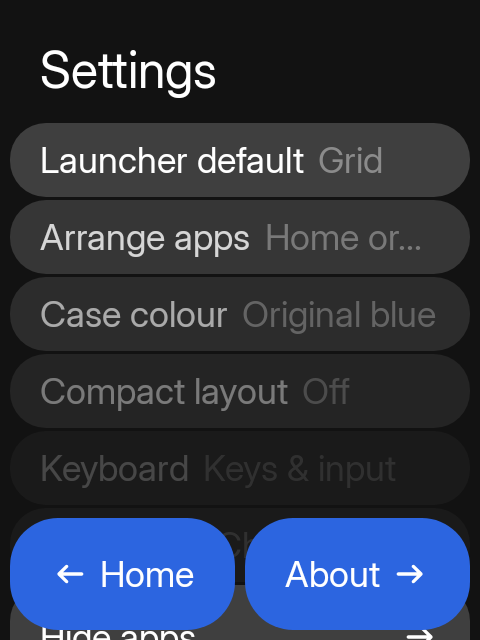
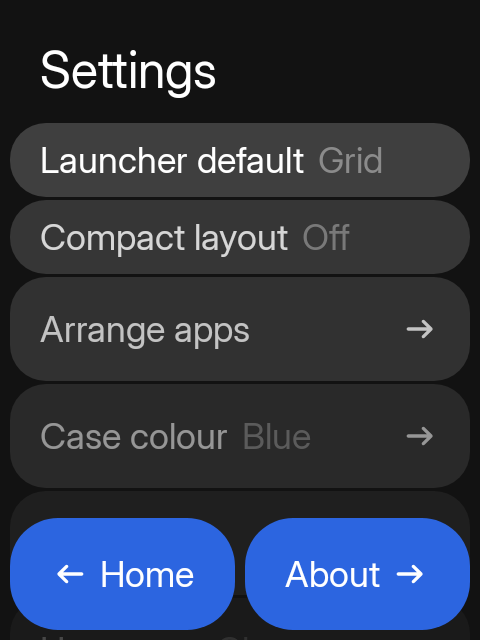
Split Settings toggles from page links
(cherry picked from commit 1ed739c7b282a1493a2430d09b34460cc0afca92)

diff --git a/sidekit/src/main/java/hrln/interactive/sidekit/design/components/Item.kt b/sidekit/src/main/java/hrln/interactive/sidekit/design/components/Item.kt
@@ -13,7 +13,6 @@ import androidx.compose.foundation.layout.padding
 import androidx.compose.foundation.layout.size
 import androidx.compose.runtime.Composable
 import androidx.compose.runtime.CompositionLocalProvider
-import hrln.interactive.sidekit.design.theme.contentColorFor
 import androidx.compose.ui.Alignment
 import androidx.compose.ui.Modifier
 import androidx.compose.ui.draw.clip
@@ -23,6 +22,7 @@ import androidx.compose.ui.text.style.TextDecoration
 import androidx.compose.ui.unit.Dp
 import hrln.interactive.sidekit.design.icons.SidekitIcon
 import hrln.interactive.sidekit.design.theme.SidekitTheme
+import hrln.interactive.sidekit.design.theme.contentColorFor
 
 /** Item "Colour Variant" from the Item component set (62:950). */
 enum class ItemColour { Primary, Secondary, Destructive, Muted }
@@ -46,7 +46,7 @@ fun SidekitTile(
     onClick: (() -> Unit)? = null,
     onClickLabel: String? = null,
     contentAlignment: Alignment = Alignment.Center,
-    content: @Composable BoxScope.() -> Unit,
+    content: @Composable BoxScope.() -> Unit
 ) {
     Box(
         modifier = modifier
@@ -54,13 +54,16 @@ fun SidekitTile(
             .clip(SidekitTheme.shapes.item)
             .background(color)
             .then(
-                if (onClick != null) Modifier.clickable(onClickLabel = onClickLabel, role = Role.Button, onClick = onClick)
-                else Modifier,
+                if (onClick != null) {
+                    Modifier.clickable(onClickLabel = onClickLabel, role = Role.Button, onClick = onClick)
+                } else {
+                    Modifier
+                }
             ),
         contentAlignment = contentAlignment,
         content = {
             CompositionLocalProvider(LocalSidekitContentColor provides SidekitTheme.colors.contentColorFor(color)) { content() }
-        },
+        }
     )
 }
 
@@ -78,26 +81,31 @@ fun SidekitItem(
     colour: ItemColour = ItemColour.Primary,
     titleDecoration: TextDecoration? = null,
     onClick: (() -> Unit)? = null,
-    leading: (@Composable RowScope.() -> Unit)? = null,
+    leading: (@Composable RowScope.() -> Unit)? = null
 ) {
     SidekitTile(
         modifier = modifier.fillMaxWidth(),
         color = colour.container(),
         onClick = onClick,
-        contentAlignment = Alignment.CenterStart,
+        contentAlignment = Alignment.CenterStart
     ) {
         Row(
             modifier = Modifier.padding(horizontal = SidekitTheme.spacing.itemPadding),
             verticalAlignment = Alignment.CenterVertically,
-            horizontalArrangement = Arrangement.spacedBy(SidekitTheme.spacing.itemContentGap),
+            horizontalArrangement = Arrangement.spacedBy(SidekitTheme.spacing.itemContentGap)
         ) {
             leading?.invoke(this)
             if (icon != null) SidekitIconImage(icon)
             SidekitText(title, textDecoration = titleDecoration)
             if (secondary != null) {
                 SidekitText(secondary, Modifier.weight(1f), color = SidekitTheme.colors.surfaceA6)
-            } else if (showLinkArrow) {
-                Box(Modifier.weight(1f), contentAlignment = Alignment.CenterEnd) {
+            }
+            // The arrow marks a row that opens another page, whether or not it also shows a value.
+            if (showLinkArrow) {
+                Box(
+                    if (secondary == null) Modifier.weight(1f) else Modifier,
+                    contentAlignment = Alignment.CenterEnd
+                ) {
                     SidekitIconImage(SidekitIcon.ArrowRightAlt)
                 }
             }
@@ -114,7 +122,7 @@ fun SidekitIconItem(
     colour: ItemColour = ItemColour.Primary,
     color: Color = colour.container(),
     iconSize: Dp = SidekitTheme.spacing.iconSize,
-    onClick: (() -> Unit)? = null,
+    onClick: (() -> Unit)? = null
 ) {
     SidekitTile(modifier = modifier, color = color, onClick = onClick, onClickLabel = contentDescription) {
         SidekitIconImage(icon, size = iconSize, contentDescription = contentDescription)
@@ -127,7 +135,7 @@ fun SidekitItemRow(modifier: Modifier = Modifier, content: @Composable RowScope.
     Row(
         modifier = modifier.fillMaxWidth(),
         horizontalArrangement = Arrangement.spacedBy(SidekitTheme.spacing.itemOuterGap),
-        content = content,
+        content = content
     )
 }
 
@@ -137,7 +145,7 @@ fun SidekitCard(
     modifier: Modifier = Modifier,
     color: Color = SidekitTheme.colors.surfaceA3,
     onClick: (() -> Unit)? = null,
-    content: @Composable BoxScope.() -> Unit,
+    content: @Composable BoxScope.() -> Unit
 ) {
     Box(
         modifier = modifier
@@ -147,6 +155,6 @@ fun SidekitCard(
             .padding(SidekitTheme.spacing.itemPadding),
         content = {
             CompositionLocalProvider(LocalSidekitContentColor provides SidekitTheme.colors.contentColorFor(color)) { content() }
-        },
+        }
     )
 }

diff --git a/app/src/main/java/hrln/interactive/sidekit/apps/settings/SettingsScreen.kt b/app/src/main/java/hrln/interactive/sidekit/apps/settings/SettingsScreen.kt
@@ -66,12 +66,19 @@ internal fun SettingsHome(onHome: () -> Unit, onAbout: () -> Unit, onCaseColour:
     val list = rememberLazyListState()
     SidekitScaffold("Settings", actions = listOf(SideAction.back("home", "Home", onHome), SideAction.forward("about", "About", onAbout))) { padding ->
         SidekitList(padding, state = list) {
-            item { SidekitItem("Launcher default", Modifier.height(CompactRowHeight).listFade(list, 0), secondary = if (listLayout) "List" else "Grid", onClick = { prefs.listLayout = !prefs.listLayout; revision++ }) }
-            item { SidekitItem("Arrange apps", Modifier.height(CompactRowHeight).listFade(list, 1), secondary = "Home order & dock", onClick = onArrange) }
-            item { SidekitItem("Case colour", Modifier.height(CompactRowHeight).listFade(list, 2), secondary = caseColour?.label ?: "Original blue", onClick = onCaseColour) }
+            // Toggles act in place: compact rows, no arrow.
+            item {
+                SidekitItem("Launcher default", Modifier.height(CompactRowHeight).listFade(list, 0), secondary = if (listLayout) "List" else "Grid", onClick = {
+                    prefs.listLayout = !prefs.listLayout
+                    revision++
+                })
+            }
+            // Everything below opens another page: full-height rows with a link arrow.
+            item { SidekitItem("Arrange apps", Modifier.listFade(list, 1), showLinkArrow = true, onClick = onArrange) }
+            item { SidekitItem("Case colour", Modifier.listFade(list, 2), secondary = caseColour?.label ?: "Blue", showLinkArrow = true, onClick = onCaseColour) }
             // All keypad preferences live together on the Keyboard page, with the key diagram.
-            item { SidekitItem("Keyboard", Modifier.height(CompactRowHeight).listFade(list, 3), secondary = "Keys & input", onClick = onKeyboard) }
-            item { SidekitItem("Home app", Modifier.height(CompactRowHeight).listFade(list, 4), secondary = if (home) "Sidekit" else "Choose", onClick = { open(Settings.ACTION_HOME_SETTINGS) }) }
+            item { SidekitItem("Keyboard", Modifier.listFade(list, 3), showLinkArrow = true, onClick = onKeyboard) }
+            item { SidekitItem("Home app", Modifier.listFade(list, 4), secondary = if (home) "Sidekit" else "Choose", showLinkArrow = true, onClick = { open(Settings.ACTION_HOME_SETTINGS) }) }
             item { SidekitItem("Hide apps", showLinkArrow = true, onClick = onHiddenApps) }
             // Device settings live on their own page, so this screen stays Sidekit's own settings.
             item { SidekitItem("System settings", showLinkArrow = true, onClick = onSystem) }

diff --git a/app/src/test/java/hrln/interactive/sidekit/apps/settings/KeypadMappingUiTest.kt b/app/src/test/java/hrln/interactive/sidekit/apps/settings/KeypadMappingUiTest.kt
@@ -192,7 +192,6 @@ class KeypadMappingUiTest {
         var opened = 0
         show { SettingsHome({}, {}, onKeyboard = { opened++ }) }
         scrollTo("Keyboard")
-        compose.onNodeWithText("Keys & input").assertIsDisplayed()
         // The old separate keypad rows are gone: one entry leads to the Keyboard page.
         compose.onNodeWithText("Input mode").assertDoesNotExist()
         compose.onNodeWithText("Keypad Back key").assertDoesNotExist()
@@ -209,7 +208,7 @@ class KeypadMappingUiTest {
         compose.onNodeWithText("Keypad").assertIsDisplayed()
         compose.onNodeWithText("Input mode").assertIsDisplayed()
         compose.onNodeWithText("Keypad Back key").assertIsDisplayed()
-        compose.onNodeWithText("Keypad mapping").assertIsDisplayed()
+        compose.onNodeWithText("Mapping").assertIsDisplayed()
         // Tapping the keypad row cycles the module, and the diagram follows it.
         compose.onNodeWithText("Keypad").performClick()
         compose.runOnIdle { assertEquals(KeypadModule.Qwerty, keypad.module) }
@@ -218,7 +217,7 @@ class KeypadMappingUiTest {
         scrollTo("Tap a key to learn its action.")
         compose.onNodeWithText("QW").assertIsDisplayed()
         compose.onRoot().captureRoboImage("screenshots/keyboard_settings_page.png")
-        scrollTo("Keypad mapping").performClick()
+        scrollTo("Mapping").performClick()
         assertEquals(1, mapping)
     }
 }

diff --git a/app/src/main/java/hrln/interactive/sidekit/apps/settings/KeyboardSettingsScreen.kt b/app/src/main/java/hrln/interactive/sidekit/apps/settings/KeyboardSettingsScreen.kt
@@ -93,8 +93,9 @@ internal fun KeyboardSettingsScreen(back: () -> Unit, onKeypadMapping: () -> Uni
             item {
                 SidekitItem(
                     "Keypad Back key",
-                    Modifier.height(CompactRowHeight).listFade(list, 2),
-                    secondary = if (accessibility) "Enabled" else "Enable",
+                    Modifier.listFade(list, 2),
+                    secondary = if (accessibility) "On" else "Off",
+                    showLinkArrow = true,
                     onClick = {
                         try {
                             context.startActivity(Intent(Settings.ACTION_ACCESSIBILITY_SETTINGS))
@@ -106,10 +107,10 @@ internal fun KeyboardSettingsScreen(back: () -> Unit, onKeypadMapping: () -> Uni
             }
             item {
                 SidekitItem(
-                    "Keypad mapping",
-                    Modifier.height(CompactRowHeight).listFade(list, 3),
-                    secondary = if (custom != null) "Custom" else null,
-                    showLinkArrow = custom == null,
+                    "Mapping",
+                    Modifier.listFade(list, 3),
+                    secondary = if (custom != null) "Custom" else "Automatic",
+                    showLinkArrow = true,
                     onClick = onKeypadMapping
                 )
             }
